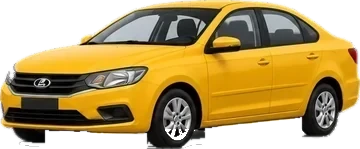
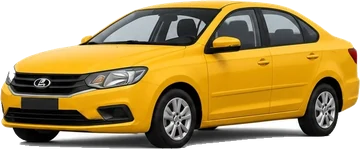
Светлая тема: исходные рисунки машин; очищенные - только в тёмной (cars/dark)
Claude-Session: https://claude.ai/code/session_01Vr2nsw1FRChDSUowvib2pM

diff --git a/index.html b/index.html
@@ -759,7 +759,8 @@ const clsAllowed = c => TORDER.indexOf(c) <= TORDER.indexOf(myCar().t) && tariff
 const clsActive = c => clsAllowed(c) && clsOn[c];
 function ensureCls() { if (!TORDER.some(clsActive)) clsOn[typeof clsRatingOk === "function" && !clsRatingOk(myCar().t) ? "econ" : myCar().t] = true; }   // хотя бы свой тариф машины всегда включён
 const myCar = () => CARS.find(c => c.id === carId) || CARS[1];
-const carImg = (c, w) => '<img class="carimg" src="cars/' + c.id + '.webp" alt="" width="' + w + '" loading="lazy">';
+const carSrc = id => "cars/" + (document.documentElement.classList.contains("dark") ? "dark/" : "") + id + ".webp";   // в тёмной теме - рисунки без подложки
+const carImg = (c, w) => '<img class="carimg" data-car-id="' + c.id + '" src="' + carSrc(c.id) + '" alt="" width="' + w + '" loading="lazy">';
 const myTariff = () => TARIFFS[myCar().t];
 // Класс заказа: машина высокого класса получает и свои заказы (реже), и заказы классом ниже (дешевле)
 function pickOrderClass() {
@@ -3457,6 +3458,7 @@ function applyTheme(force) {
   try { if (window.TG) { TG.setHeaderColor(d ? "#2D3039" : "#ffffff"); TG.setBackgroundColor(d ? "#262930" : "#f0f1f4"); } } catch (e) {}
   const mc = document.querySelector('meta[name="theme-color"]'); if (mc) mc.content = d ? "#262930" : "#ffffff";
   if (!$("kef").hidden) drawKef();
+  for (const im of document.querySelectorAll("img[data-car-id]")) im.src = carSrc(im.dataset.carId);
 }
 function renderThemeSeg() { for (const b of document.querySelectorAll("#themeseg [data-th]")) b.classList.toggle("on", b.dataset.th === THEME.pref); }
 $("themeseg").addEventListener("click", e => { const b = e.target.closest("[data-th]"); if (!b) return; THEME.pref = b.dataset.th; try { localStorage.setItem("taxi-theme", THEME.pref); } catch (er) {} applyTheme(true); renderThemeSeg(); });

diff --git a/CONTEXT.md b/CONTEXT.md
@@ -14,7 +14,7 @@
 - `mapdata.js`: дорожный граф (nodes, edges, names, places).
 - `osmmap.js`: вода, зелень, дома, места (pois), улицы и адреса. Собирается скриптом `tools/build_osm.py` из `osm/*.json`.
 - `tools/add_roads.py`: вшивает новые дороги из выгрузки в `mapdata.js`.
-- `cars/*.webp`: рисунки машин пользователя без фона, полосы и логотипов (granta, rio, polo, octavia, tiggo4, optima = Kia K5, camry), вырезаны из общей картинки пользователя.
+- `cars/*.webp`: рисунки машин пользователя (светлая тема, исходные); `cars/dark/*.webp` - те же без белой подложки и тени, для тёмной темы без фона, полосы и логотипов (granta, rio, polo, octavia, tiggo4, optima = Kia K5, camry), вырезаны из общей картинки пользователя.
 
 ## Что уже есть в игре
 - Аэропорт (выгрузки osm/airport.json и osm/roads_airport.json в ветке osm-data): дороги вшиты tools/add_roads.py, лётное поле, полосы, рулёжки и перрон рисует tools/build_osm.py. В mapdata.js вручную добавлен съезд 45907->353; восстановлены выпавшие при загрузке участки подъездной дороги (secondary) и петля «улица Аэропорт» у терминала (односторонние участки). Подача к аэропорту - на петле «улица Аэропорт». Маршрут: в аэропорт и обратно по подъездной дороге и развязке, около 21 км от центра. Заказы: в аэропорт 3.5% (утром и вечером 6%), из аэропорта 75% заказов, пока машина ближе 3 км к терминалу; доплата 250 ₽ (умножается на тариф), метка «Аэропорт».
